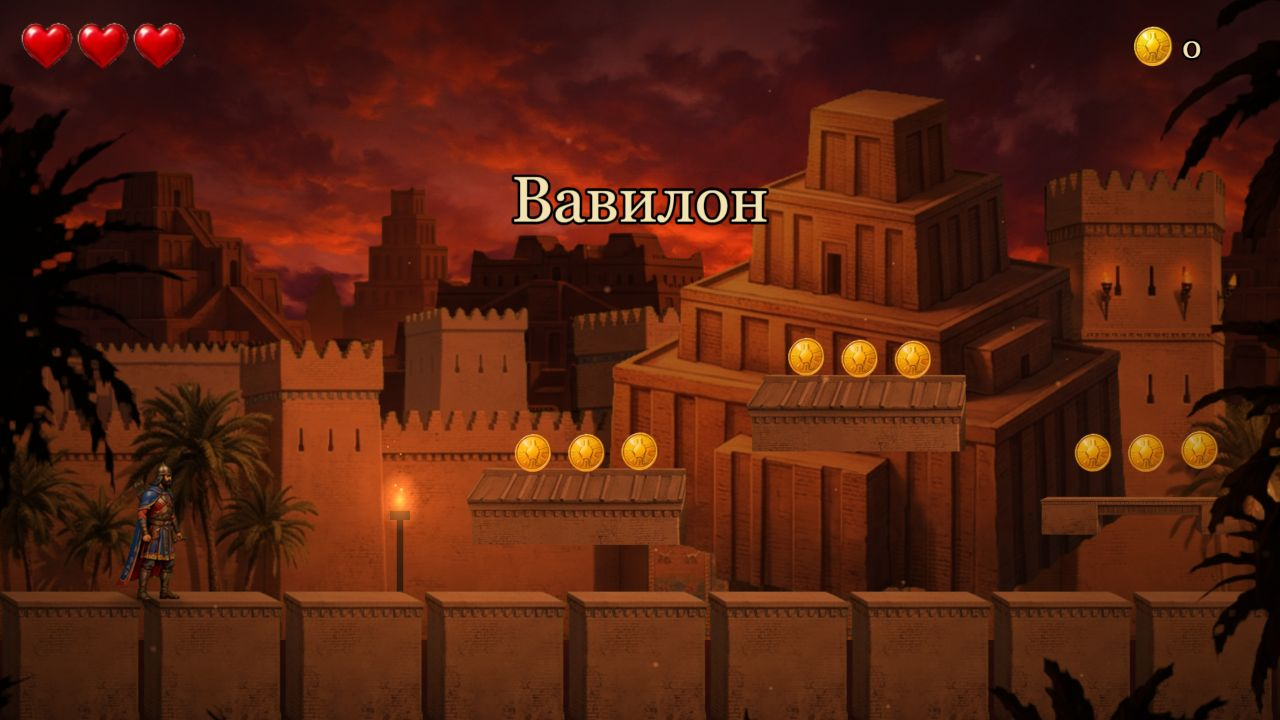
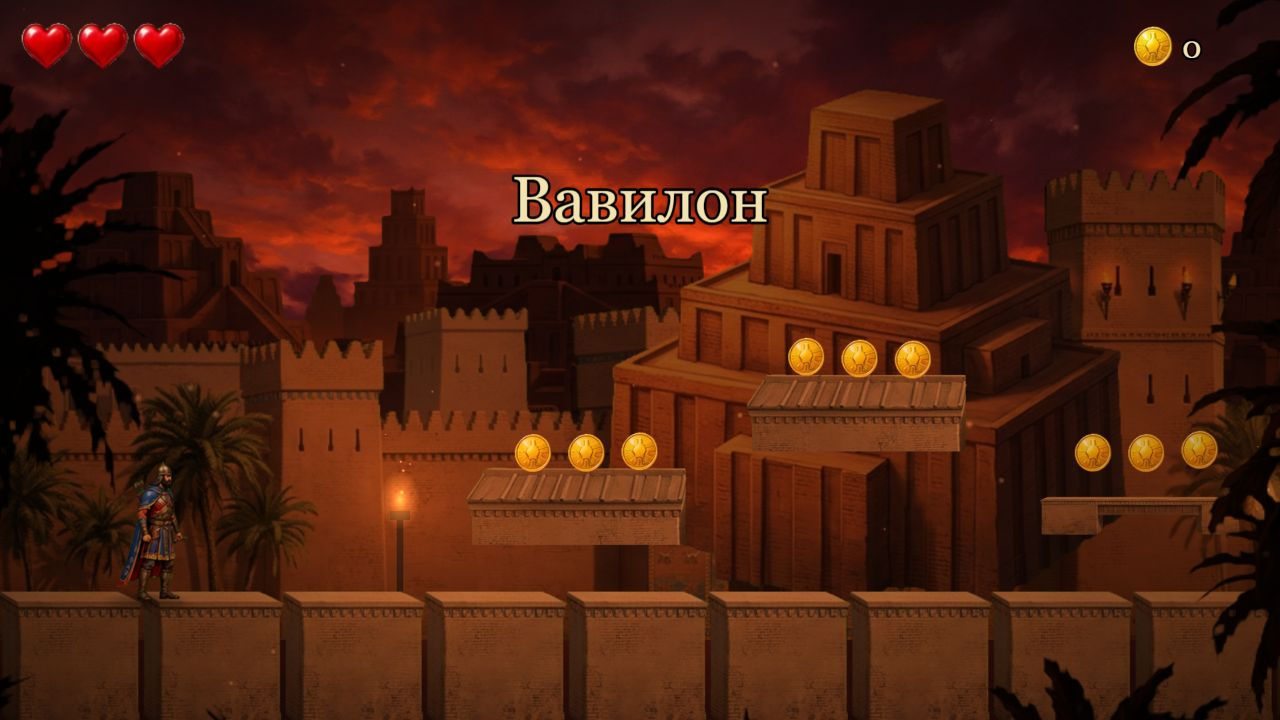
Ветер, вода в ямах, черновые данные уровней 2–4 (ещё не подключены)

diff --git a/src/levels/level3.js b/src/levels/level3.js
@@ -1,0 +1,114 @@
+import { coins, coinArc } from './helpers.js';
+
+// Уровень 3 — Страна Арарат. Светлый и просторный: много монет, враги — звери, ямы — ручьи (water).
+const G = 900;
+
+// украшения (не мешают ходить): k — картинка, s — увеличение, d — глубина (больше 50 — перед героем)
+function deco() {
+  const out = [];
+  const trees = ['a-tree-1', 'a-tree-2', 'a-tree-3', 'a-tree-4', 'a-cypress-2', 'a-cypress-1'];
+  const small = ['a-bush-1', 'a-grass-4', 'a-rocks-4', 'a-bush-4', 'a-grass-1', 'a-bush-6', 'a-rocks-5', 'a-grass-3'];
+  const spots = [
+    [150, 1350], [1700, 3250], [3500, 5150], [5400, 7050], [7300, 9150], [9450, 11250], [11500, 13650], [13950, 15350], [15650, 18000],
+  ];
+  let n = 0;
+  for (const [a, b] of spots) {
+    for (let x = a + 120; x < b - 100; x += 330) {
+      n++;
+      if (n % 3 === 0) out.push({ k: trees[(n / 3) % trees.length | 0], x, y: G + 8, s: 3 + (n % 2) * 0.5, d: 8 });
+      out.push({ k: small[n % small.length], x: x + 150, y: G + 10, s: 1.7, d: n % 4 === 0 ? 60 : 12 });
+    }
+  }
+  return out;
+}
+
+export default {
+  id: 3,
+  name: 'Страна Арарат',
+  width: 18200,
+  start: { x: 220, y: G },
+  exitX: 18050,
+  ground: [
+    { x: 0, w: 1400, y: G },
+    { x: 1640, w: 1660, y: G },
+    { x: 3450, w: 1750, y: G },
+    { x: 5350, w: 1750, y: G },
+    { x: 7250, w: 1950, y: G },
+    { x: 9400, w: 1900, y: G },
+    { x: 11450, w: 2250, y: G },
+    { x: 13900, w: 1500, y: G },
+    { x: 15600, w: 2600, y: G },
+  ],
+  water: [
+    { x: 1400, w: 240 }, { x: 3300, w: 150 }, { x: 5200, w: 150 }, { x: 7100, w: 150 },
+    { x: 9200, w: 200 }, { x: 11300, w: 150 }, { x: 13700, w: 200 }, { x: 15400, w: 200 },
+  ],
+  platforms: [
+    { x: 600, y: 740, w: 380, k: 'p4' },
+    { x: 1050, y: 620, w: 340, k: 's11' },
+    { x: 2500, y: 730, w: 420, k: 'p8' },
+    { x: 3900, y: 740, w: 380, k: 'p5' },
+    { x: 4350, y: 600, w: 380, k: 'p4' },
+    { x: 4800, y: 740, w: 340, k: 's11' },
+    { x: 6000, y: 730, w: 440, k: 'p12' },
+    { x: 7700, y: 740, w: 300, k: 'r2', solid: true },
+    { x: 8100, y: 610, w: 400, k: 'p8' },
+    { x: 8600, y: 740, w: 340, k: 's11' },
+    { x: 9150, y: 800, w: 300, k: 'arch', d: 21 },
+    { x: 10100, y: 730, w: 420, k: 'p5' },
+    { x: 10600, y: 590, w: 380, k: 'p4' },
+    { x: 12300, y: 740, w: 420, k: 'p12' },
+    { x: 12800, y: 610, w: 340, k: 's11' },
+    { x: 13640, y: 820, w: 330, k: 'bridge', d: 21 },
+    { x: 14400, y: 730, w: 420, k: 'p8' },
+    { x: 16300, y: 740, w: 380, k: 'p4' },
+    { x: 16750, y: 600, w: 380, k: 'p5' },
+    { x: 17200, y: 740, w: 340, k: 's11' },
+  ],
+  checkpoints: [{ x: 3600, y: G }, { x: 9550, y: G }, { x: 14050, y: G }],
+  enemies: [
+    { type: 'deer', x: 1100, y: G },
+    { type: 'wolf', x: 2800, y: G },
+    { type: 'boar', x: 4500, y: G },
+    { type: 'deer', x: 6000, y: G },
+    { type: 'wolf', x: 6500, y: G },
+    { type: 'boar', x: 8300, y: G },
+    { type: 'wolf', x: 8700, y: G, roam: 300 },
+    { type: 'bear', x: 10500, y: G },
+    { type: 'wolf', x: 12200, y: G },
+    { type: 'boar', x: 12900, y: G },
+    { type: 'deer', x: 14900, y: G },
+    { type: 'bear', x: 16400, y: G },
+    { type: 'wolf', x: 17300, y: G, roam: 350 },
+  ],
+  hazards: [
+    { type: 'wooden-stakes', x: 5700, y: G },
+    { type: 'palisade', x: 11900, y: G },
+    { type: 'wooden-stakes', x: 15900, y: G },
+  ],
+  pickups: [
+    ...coins(400, 830, 3), ...coins(700, 670, 3), ...coins(1140, 550, 3), ...coinArc(1380, 780, 4, 90),
+    ...coins(2200, 830, 4), ...coins(2610, 660, 3), ...coinArc(3240, 790, 4, 90), ...coins(3990, 670, 3),
+    ...coins(4440, 530, 3), ...coins(4890, 670, 3), ...coinArc(5140, 790, 4, 90), ...coins(6110, 660, 3),
+    ...coins(6700, 830, 4), ...coinArc(7040, 790, 4, 90), ...coins(7790, 670, 2), ...coins(8210, 540, 3),
+    ...coins(8690, 670, 3), ...coins(9230, 730, 2), ...coins(9800, 830, 3), ...coins(10210, 660, 3),
+    ...coins(10690, 520, 3), ...coinArc(11240, 790, 4, 90), ...coins(12410, 670, 3), ...coins(12890, 540, 3),
+    ...coins(13720, 750, 3), ...coins(14510, 660, 3), ...coinArc(15360, 780, 4, 90), ...coins(16390, 670, 3),
+    ...coins(16840, 530, 3), ...coins(17290, 670, 3), ...coins(17600, 830, 4),
+    { type: 'heart', x: 4540, y: 500 },
+    { type: 'heart', x: 10790, y: 490 },
+    { type: 'heart', x: 16940, y: 500 },
+  ],
+  props: [
+    ...deco(),
+    { k: 'a-ruin-column', x: 3000, y: G + 8, s: 2.4, d: 9 },
+    { k: 'a-stele', x: 3720, y: G + 6, s: 2, d: 9 },
+    { k: 'a-ruin-stones', x: 6900, y: G + 8, s: 2.4, d: 9 },
+    { k: 'a-stone-pillar', x: 9700, y: G + 6, s: 2, d: 9 },
+    { k: 'a-cart-2', x: 11700, y: G + 8, s: 2.2, d: 9 },
+    { k: 'a-amphora-2', x: 11850, y: G + 6, s: 1.8, d: 9 },
+    { k: 'a-ruin-column', x: 14200, y: G + 8, s: 2.4, d: 9, flip: true },
+    { k: 'a-banner-2', x: 17900, y: G + 6, s: 2.2, d: 9 },
+    { k: 'a-banner-1', x: 18000, y: G + 6, s: 2.2, d: 9 },
+  ],
+};

diff --git a/src/levels/level4.js b/src/levels/level4.js
@@ -1,0 +1,80 @@
+import { coins, coinArc } from './helpers.js';
+
+// Уровень 4 — Айоц-Дзор. Первая половина — прорыв через войско Бела, вторая — арена с Белом.
+const G = 900;
+const ARENA_X = 9700; // левый край арены
+const ARENA_W = 2200;
+
+export default {
+  id: 4,
+  name: 'Айоц-Дзор',
+  width: ARENA_X + ARENA_W,
+  start: { x: 220, y: G },
+  exitX: 99999, // уровень заканчивается победой над Белом
+  ground: [
+    { x: 0, w: 1700, y: G },
+    { x: 1980, w: 1500, y: G },
+    { x: 4100, w: 1800, y: G },
+    { x: 6200, w: 1500, y: G },
+    { x: 8300, w: 3600, y: G },
+  ],
+  platforms: [
+    { x: 700, y: 740, w: 360, k: 'h5' },
+    { x: 1250, y: 690, w: 330, k: 'h9' },
+    { x: 2700, y: 700, w: 330, k: 'h3' },
+    { x: 3560, y: 780, w: 300, k: 'h9' },
+    { x: 3850, y: 700, w: 240, k: 'h2' },
+    { x: 4700, y: 730, w: 380, k: 'h1' },
+    { x: 5250, y: 690, w: 330, k: 'h3' },
+    { x: 6800, y: 700, w: 330, k: 'h9' },
+    { x: 7780, y: 820, w: 240, k: 'h2' },
+    { x: 8050, y: 760, w: 240, k: 'h2' },
+    { x: 8800, y: 730, w: 360, k: 'h6' },
+    // уступы арены: нижние по краям, верхние обваливаются — долго стоять нельзя
+    { x: ARENA_X + 80, y: 720, w: 230, k: 'h2' },
+    { x: ARENA_X + 370, y: 560, w: 300, k: 'h5', crumble: true },
+    { x: ARENA_X + 800, y: 560, w: 260, k: 'h5', crumble: true },
+    { x: ARENA_X + 1180, y: 560, w: 260, k: 'h5', crumble: true },
+    { x: ARENA_X + 1560, y: 560, w: 300, k: 'h5', crumble: true },
+    { x: ARENA_X + 1920, y: 720, w: 230, k: 'h2' },
+  ],
+  checkpoints: [{ x: 2150, y: G }, { x: 6350, y: G }, { x: ARENA_X - 250, y: G }],
+  enemies: [
+    { type: 'spearman', x: 1000, y: G },
+    { type: 'archer', x: 1415, y: 690 },
+    { type: 'spearman', x: 2700, y: G, roam: 250 },
+    { type: 'archer', x: 2865, y: 700 },
+    { type: 'spearman', x: 3200, y: G, roam: 200 },
+    { type: 'spearman', x: 4500, y: G },
+    { type: 'spearman', x: 5100, y: G },
+    { type: 'archer', x: 5415, y: 690 },
+    { type: 'spearman', x: 5600, y: G, roam: 200 },
+    { type: 'spearman', x: 6800, y: G, roam: 250 },
+    { type: 'archer', x: 6965, y: 700 },
+    { type: 'spearman', x: 7300, y: G, roam: 250 },
+    { type: 'spearman', x: 8700, y: G, roam: 250 },
+    { type: 'archer', x: 8980, y: 730 },
+    { type: 'spearman', x: 9150, y: G, roam: 150 },
+  ],
+  hazards: [
+    { type: 'palisade', x: 1600, y: G },
+    { type: 'wooden-stakes', x: 3350, y: G },
+    { type: 'palisade', x: 4300, y: G },
+    { type: 'wooden-stakes', x: 5800, y: G },
+    { type: 'wooden-stakes', x: 7550, y: G },
+  ],
+  pickups: [
+    ...coins(790, 670, 3), ...coinArc(1700, 790, 4, 90), ...coins(2300, 830, 3), ...coins(3640, 710, 2),
+    ...coins(3920, 630, 2), ...coins(4800, 660, 3), ...coinArc(5890, 790, 4, 100), ...coins(6500, 830, 3),
+    ...coins(7850, 750, 2), ...coins(8120, 690, 2),
+    { type: 'heart', x: 3970, y: 600 },
+    { type: 'heart', x: 6965, y: 540 },
+    { type: 'heart', x: 9330, y: 800 },
+  ],
+  props: [
+    { k: 'h-plat-11', x: 2350, y: G + 12, s: 1.5, d: 9 },
+    { k: 'h-plat-11', x: 6450, y: G + 12, s: 1.5, d: 9, flip: true },
+    { k: 'h-plat-11', x: 9500, y: G + 12, s: 1.5, d: 9 },
+  ],
+  boss: { x: ARENA_X + 1650, y: G, arenaX: ARENA_X, arenaW: ARENA_W },
+};

diff --git a/src/levels/level2.js b/src/levels/level2.js
@@ -1,0 +1,66 @@
+import { coins, coinArc } from './helpers.js';
+
+// Уровень 2 — Путь на север. Порывы ветра сносят в прыжке, лёд скользит (ice), плиты обваливаются (crumble).
+export default {
+  id: 2,
+  name: 'Путь на север',
+  width: 17700,
+  start: { x: 220, y: 900 },
+  exitX: 17550,
+  ground: [
+    { x: 0, w: 1600, y: 900 },
+    { x: 1600, w: 900, y: 800 },
+    { x: 2780, w: 1000, y: 800 },
+    { x: 3780, w: 900, y: 800, ice: true },
+    { x: 4960, w: 1200, y: 900 },
+    { x: 7600, w: 1500, y: 860 },
+    { x: 9400, w: 800, y: 900, ice: true },
+    { x: 11200, w: 1400, y: 700 },
+    { x: 13400, w: 1500, y: 900 },
+    { x: 15180, w: 700, y: 900, ice: true },
+    { x: 16160, w: 1540, y: 850 },
+  ],
+  platforms: [
+    { x: 700, y: 740, w: 340, k: 'h5' },
+    { x: 1150, y: 640, w: 320, k: 'h2' },
+    { x: 3100, y: 640, w: 340, k: 'h6' },
+    { x: 5400, y: 740, w: 360, k: 'h1' },
+    // цепочка обваливающихся плит над пропастью
+    { x: 6260, y: 820, w: 240, k: 'h2', crumble: true },
+    { x: 6560, y: 760, w: 240, k: 'h2', crumble: true },
+    { x: 6860, y: 820, w: 240, k: 'h2', crumble: true },
+    { x: 7140, y: 760, w: 240, k: 'h2', crumble: true },
+    { x: 7390, y: 840, w: 180, k: 'h2' },
+    { x: 8100, y: 700, w: 340, k: 'h5' },
+    // подъём по уступам
+    { x: 10250, y: 780, w: 400, k: 'h1' },
+    { x: 10750, y: 660, w: 380, k: 'h7' },
+    { x: 11700, y: 540, w: 340, k: 'h6' },
+    // спуск
+    { x: 12700, y: 780, w: 280, k: 'h2', crumble: true },
+    { x: 13050, y: 850, w: 300, k: 'h5', ice: true },
+    { x: 13900, y: 740, w: 340, k: 'h6' },
+    { x: 15930, y: 860, w: 190, k: 'h2', crumble: true },
+    { x: 16600, y: 690, w: 340, k: 'h5' },
+  ],
+  checkpoints: [{ x: 5100, y: 900 }, { x: 7750, y: 860 }, { x: 13550, y: 900 }],
+  enemies: [
+    { type: 'wolf', x: 3200, y: 800, roam: 350 },
+    { type: 'wolf', x: 8500, y: 860 },
+    { type: 'spearman', x: 12000, y: 700 },
+    { type: 'archer', x: 14650, y: 900 },
+    { type: 'wolf', x: 16900, y: 850 },
+  ],
+  hazards: [],
+  pickups: [
+    ...coins(790, 670, 3), ...coins(1230, 570, 3), ...coinArc(2500, 700, 4, 90), ...coins(3190, 570, 3),
+    ...coins(4000, 730, 5, 110), ...coinArc(4680, 720, 4, 90), ...coins(5500, 670, 3),
+    ...coins(6380, 750, 1), ...coins(6680, 690, 1), ...coins(6980, 750, 1), ...coins(7260, 690, 1),
+    ...coins(8190, 630, 3), ...coinArc(9110, 760, 4, 90), ...coins(9600, 830, 4, 110),
+    ...coins(10370, 710, 3), ...coins(10860, 590, 3), ...coins(11790, 470, 3),
+    ...coins(12800, 710, 2), ...coins(13990, 670, 3), ...coinArc(14900, 790, 4, 90),
+    ...coins(15350, 830, 4, 110), ...coins(16690, 620, 3),
+    { type: 'heart', x: 7480, y: 760 },
+    { type: 'heart', x: 11870, y: 450 },
+  ],
+};

diff --git a/src/entities/Player.js b/src/entities/Player.js
@@ -62,13 +62,14 @@ export default class Player extends Phaser.Physics.Arcade.Sprite {
     if (!stunned) dir = (k.RIGHT.isDown || k.D.isDown ? 1 : 0) - (k.LEFT.isDown || k.A.isDown ? 1 : 0);
     let vx = body.velocity.x;
     const mul = ice ? PLAYER.iceMul : 1;
+    // порыв ветра сносит только в воздухе: сдвигает скорость, к которой стремится герой
+    const wind = onGround ? 0 : this.scene.windSpeed || 0;
     if (dir !== 0) {
-      vx = toward(vx, dir * PLAYER.runSpeed, (onGround ? PLAYER.accel * mul : PLAYER.airAccel) * dt);
+      vx = toward(vx, dir * PLAYER.runSpeed + wind, (onGround ? PLAYER.accel * mul : PLAYER.airAccel) * dt);
       this.facing = dir;
     } else if (!stunned || onGround) {
-      vx = toward(vx, 0, (onGround ? PLAYER.decel * mul : PLAYER.airDecel) * dt);
+      vx = toward(vx, wind, (onGround ? PLAYER.decel * mul : wind ? PLAYER.airAccel : PLAYER.airDecel) * dt);
     }
-    if (!onGround && this.scene.windForce) vx += this.scene.windForce * dt;
     body.setVelocityX(vx);
 
     // прыжок

diff --git a/src/atmosphere/Atmosphere.js b/src/atmosphere/Atmosphere.js
@@ -62,6 +62,11 @@ export default class Atmosphere {
 
   addLayer(l, depth) {
     const scene = this.scene;
+    if (l.band !== undefined) {
+      // простая цветная полоса от высоты top до низа экрана (например, зелёные предгорья)
+      scene.add.rectangle(0, l.top, GAME_W, GAME_H - l.top, l.band, l.alpha ?? 1).setOrigin(0).setScrollFactor(0).setDepth(depth);
+      return;
+    }
     const tex = scene.textures.get(l.key).getSourceImage();
     const s = l.scale ?? 1;
     if (l.single) {
@@ -166,12 +171,12 @@ export default class Atmosphere {
       w.state = 'gust';
       w.until = time + WIND.gustMs;
       if (this.snow) this.snow.gravityX = -3600;
-      scene.windForce = -WIND.force;
+      scene.windSpeed = -WIND.push;
     } else {
       w.state = 'calm';
       w.until = time + WIND.calmMs;
       if (this.snow) this.snow.gravityX = 0;
-      scene.windForce = 0;
+      scene.windSpeed = 0;
     }
   }
 }

diff --git a/src/scenes/Game.js b/src/scenes/Game.js
@@ -39,7 +39,7 @@ export default class Game extends Phaser.Scene {
     this.art = atm ? atm.art : null;
     this.surface = atm ? atm.surface : 'stone';
     this.god = false;
-    this.windForce = 0;
+    this.windSpeed = 0;
     this.over = false;
     this.finished = false;
     this.cpCoins = this.coins;
@@ -57,6 +57,11 @@ export default class Game extends Phaser.Scene {
     for (const p of level.props || []) {
       this.add.image(p.x, p.y, p.k).setOrigin(0.5, 1).setScale(p.s ?? 1).setDepth(p.d ?? 10).setFlipX(!!p.flip)
         .setTint(p.tint ?? (this.art && this.art.propTint) ?? 0xffffff).setAlpha(p.a ?? 1);
+    }
+
+    for (const w of level.water || []) {
+      this.add.rectangle(w.x, w.y ?? 960, w.w, BOTTOM, 0x3f7fa8, 0.85).setOrigin(0).setDepth(18);
+      this.add.rectangle(w.x, w.y ?? 960, w.w, 10, 0xcfeaf5, 0.7).setOrigin(0).setDepth(18);
     }
 
     this.buildCheckpoints();

diff --git a/src/config.js b/src/config.js
@@ -77,7 +77,7 @@ export const WIND = {
   calmMs: 4200, // затишье
   warnMs: 1300, // предупреждение (снег ускоряется)
   gustMs: 1900, // порыв
-  force: 1500, // ускорение, с которым порыв сносит героя в воздухе
+  push: 270, // на сколько порыв уменьшает скорость героя в воздухе (сносит влево)
 };
 
 export const CRUMBLE = { delayMs: 550, respawnMs: 3500 };
